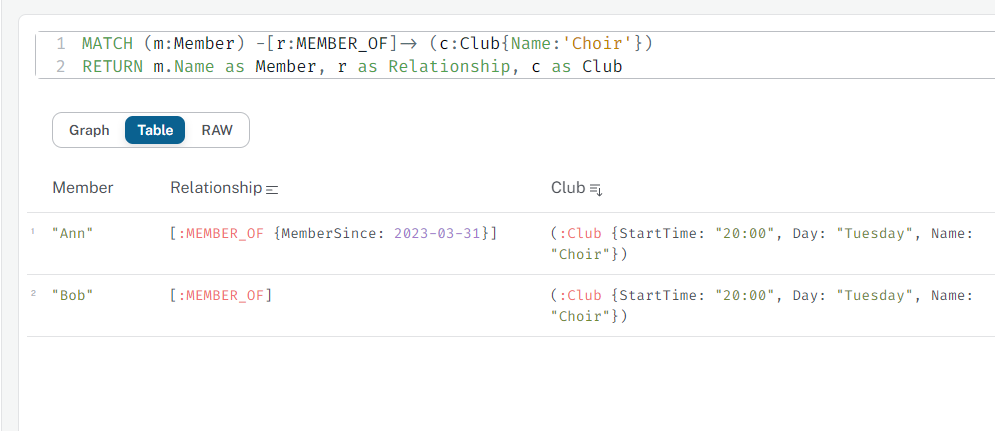
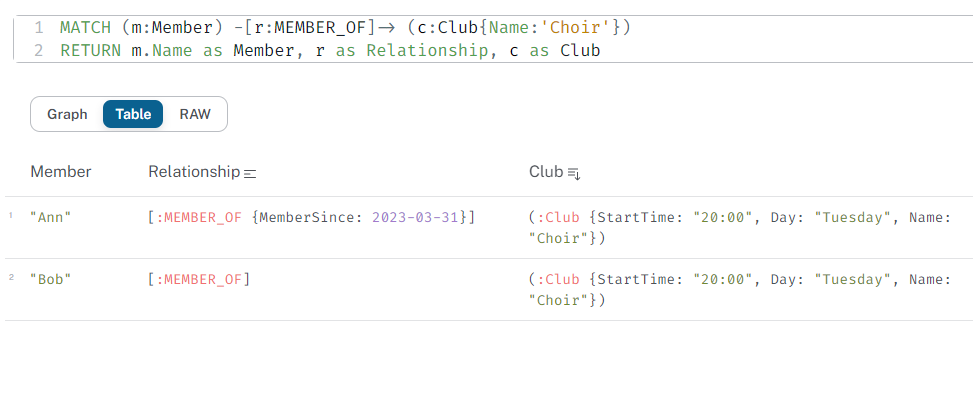
Updated newlines to be consistent and cropped images to remove borders

diff --git a/_posts/2024-05-01-knowledge-graphs-what-are-they.md b/_posts/2024-05-01-knowledge-graphs-what-are-they.md
@@ -7,36 +7,40 @@ summary: I'll admit that for me knowledge graphs and graph databases were always
 author: rstrange
 ---
 
-Knowledge graph technologies certainly appear to be [on the rise](https://www.linkedin.com/pulse/global-knowledge-graph-market-dynamics-xknsc), and if adoption rates continue to climb these data stores may quickly become something we all need to sit up and take notice of. Indeed, there are already many [applications of knowledge graphs](https://www.wisecube.ai/blog/20-real-world-industrial-applications-of-knowledge-graphs/) out there in domains as diverse as finance, health and social media, all the way to the latest AI and Natural Language Processing techniques.  
-With no personal experience with them however, I’d always found knowledge graphs (and graph databases) to be a nebulous concept - in short I didn’t really know what they were, but I kind of knew they existed. 
+Knowledge graph technologies certainly appear to be [on the rise](https://www.linkedin.com/pulse/global-knowledge-graph-market-dynamics-xknsc), and if adoption rates continue to climb these data stores may quickly become something we all need to sit up and take notice of. Indeed, there are already many [applications of knowledge graphs](https://www.wisecube.ai/blog/20-real-world-industrial-applications-of-knowledge-graphs/) out there in domains as diverse as finance, health and social media, all the way to the latest AI and Natural Language Processing techniques.
 
-In this blog post I’ll give my impressions having looked into these data stores. I’ll go over the basics of what a knowledge graph is, and discuss how and why graph databases can be useful compared to more traditional relational databases.
-Hopefully this can serve as a useful springboard for anyone else interested in learning the basics.
+With no personal experience with them however, I’d always found knowledge graphs (and graph databases) to be a nebulous concept - in short I didn’t really know what they were, but I kind of knew they existed.
+
+In this blog post I’ll give my impressions having looked into these data stores. I’ll go over the basics of what a knowledge graph is, and discuss how and why graph databases can be useful compared to more traditional relational databases. Hopefully this can serve as a useful springboard for anyone else interested in learning the basics.
 
 ### What is a knowledge graph?
-There are a few different definitions around, all of them fairly abstract, but in effect they’re a graphical representation of entities and the relationships between them. They are knowledge that is modelled as a graph of connected entities, hence knowledge graph.  
+There are a few different definitions around, all of them fairly abstract, but in effect they’re a graphical representation of entities and the relationships between them. They are knowledge that is modelled as a graph of connected entities, hence knowledge graph.
+
 Below is an example of a knowledge graph showing a choir club alongside two of its members - the knowledge it represents is that Ann and Bob are members of a choir.
 
 <small>A simple knowledge graph</small>
 ![png]({{ site.github.url }}/rstrange/assets/knowledge-graphs/knowledge-graph-simple.png)
 
-Ann, Bob and Choir are **entities** in the knowledge graph, commonly referred to as nodes.  
+Ann, Bob and Choir are **entities** in the knowledge graph, commonly referred to as nodes.
+
 These nodes can represent anything we can think of, as knowledge graphs are structureless. Here we’re only representing two types of node, members (Ann and Bob) and clubs (Choir), but we could add whatever we like in. If we decided it worthwhile to model the building the choir takes place in, we could add another circle, write ‘village hall’ inside it and we’re away.
 
-The two MEMBER_OF arrows represent the **relationships** between these entities, commonly referred to as edges.  
+The two MEMBER_OF arrows represent the **relationships** between these entities, commonly referred to as edges.
+
 Here the arrows suggest the relationship has direction; Ann is a member of the Choir, but the Choir is not a member of Ann. In this blog we’ll limit ourselves to relationships that have direction.
 
 So we’ve got a conceptual model of nodes which represent entities, and edges which represent the relationships between those entities. Great!
 
 ### What is a graph database?
-Graph databases are data stores for knowledge graphs. They are databases built on the foundation that the relationships between entities are as important as the entities themselves. By doing so they can put relationships at the forefront of how they are structured, and therefore how they can be queried.  
-As we’ll see later they make traversing relationships in a data store far easier. I have also seen claims that this translates to faster query times when traversing relationships in highly connected data, albeit I haven’t benchmarked this myself.
+Graph databases are data stores for knowledge graphs. They are databases built on the foundation that the relationships between entities are as important as the entities themselves. By doing so they can put relationships at the forefront of how they are structured, and therefore how they can be queried. As we’ll see later they make traversing relationships in a data store far easier. I have also seen claims that this translates to faster query times when traversing relationships in highly connected data, albeit I haven’t benchmarked this myself.
 
-There are many different graph database vendors around, from [Neo4j](https://neo4j.com/) and [TigerGraph](https://www.tigergraph.com/), through to [Neptune](https://aws.amazon.com/neptune/) on AWS and Azure’s [Cosmos DB](https://learn.microsoft.com/en-us/azure/cosmos-db/gremlin/introduction). I won’t be doing an in depth analysis on these here, but I think it’s fair to say there’s plenty of choice in the market.  
+There are many different graph database vendors around, from [Neo4j](https://neo4j.com/) and [TigerGraph](https://www.tigergraph.com/), through to [Neptune](https://aws.amazon.com/neptune/) on AWS and Azure’s [Cosmos DB](https://learn.microsoft.com/en-us/azure/cosmos-db/gremlin/introduction). I won’t be doing an in depth analysis on these here, but I think it’s fair to say there’s plenty of choice in the market.
+
 I’m using a Neo4j database throughout this blog alongside their visualisation engine, which lets you view the data as a knowledge graph. Whilst the visualisation engine isn’t necessarily always a part of graph databases (you can store data without one), they are a standard way of interacting with them and viewing the data. Indeed you’ve already seen one, the initial image in this blog post was taken from a Neo4j database.
 
 ### We’ve got some circles and lines, but where’s the rest of the data?
-Knowledge graphs, and by extension graph databases, can include implicit data on both the nodes and the edges.  
+Knowledge graphs, and by extension graph databases, can include implicit data on both the nodes and the edges.
+
 For this example, Neo4j has the concept of labels on nodes, and types on edges. Both can then also have additional data properties. Below shows the Choir node with a label ‘Club’ and a property ‘StartTime’. The edge has type ‘MEMBER_OF’ and property ‘MemberSince’.
 
 <small>Label and property on a node</small>
@@ -58,12 +62,15 @@ MATCH (m:Member) -[r:MEMBER_OF]-> (c:Club{Name:'Choir'})
 RETURN m.Name as Member, r as Relationship, c as Club
 ~~~
 
-I’m not going to go into the details of Cypher in this blogpost, but the above matches any node with the Member label that has a MEMBER_OF relationship to a node with the club label and name property ‘choir’.  
-It’s a powerful language which is basically the equivalent of SQL in a relational database. Originally created solely for Neo4j it has been open sourced through OpenCypher, a popular querying language for graph databases across multiple vendors.  
+I’m not going to go into the details of Cypher in this blogpost, but the above matches any node with the Member label that has a MEMBER_OF relationship to a node with the club label and name property ‘choir’.
+
+It’s a powerful language which is basically the equivalent of SQL in a relational database. Originally created solely for Neo4j it has been open sourced through OpenCypher, a popular querying language for graph databases across multiple vendors.
+
 It’s also worth noting that just recently the International Organisation for Standardization (ISO) certified [GQL as the official language for graph databases](https://www.theregister.com/2024/04/24/gql_iso_recognition/); and Cypher appears to have been a large influence in the creation of this standard.
 
 ### Why would I use a graph database over a relational database?
-I’ll admit this was my first thought, so I knocked up an example of each to allow myself to compare how they act.  
+I’ll admit this was my first thought, so I knocked up an example of each to allow myself to compare how they act.
+
 To make things a little more interesting I first expanded out the example from above, adding in some extra clubs and members. We now have 3 clubs: Choir, Board Game club, and Judo. We’ve also got some extra members in those clubs.
 
 For the purposes of comparison I then created three database tables in Sql to hold the same data. Those tables were Club, Member and Membership, where the Membership table holds the many-to-many relationship between clubs and members.
@@ -74,17 +81,17 @@ For the purposes of comparison I then created three database tables in Sql to ho
 <small>Tabular representation of members and clubs</small>
 ![png]({{ site.github.url }}/rstrange/assets/knowledge-graphs/sql-with-joins.png)
 
-Both of these representations are pretty easy to read, but traversing the relationships of the tabular representation feels clunky in comparison.  
-For example, what if we wanted to know which members go to a club with Bob?  
+Both of these representations are pretty easy to read, but traversing the relationships of the tabular representation feels clunky in comparison.
+
+For example, what if we wanted to know which members go to a club with Bob?
+
 I find that in the knowledge graph I can link through the relationships easily to traverse the data, whereas in the table form I need to keep track of the data in my head as I read it.
 
-That may sound obvious, but I think it’s a powerful representation of what knowledge graphs and graph databases are for; they are for when the relationships between data are as interesting or important as the data itself.  
-To put it another way, if you have a connected dataset where you’ll be traversing relationships often, they could be the way to go.
+That may sound obvious, but I think it’s a powerful representation of what knowledge graphs and graph databases are for; they are for when the relationships between data are as interesting or important as the data itself. To put it another way, if you have a connected dataset where you’ll be traversing relationships often, they could be the way to go.
 
 Now you might argue that it’s perhaps an unfair comparison, as there is nothing stopping anyone from building a tool to sit above SQL tables to show them in a similar graphical format. The point is that graph databases are built in a way that makes the creation of this visual knowledge graph far easier. Whichever vendor we pick, we can expect there to be nice tools to do this out of the box. So rather than wrangling SQL to try and be something it’s not, we can just use a graph database.
 
-But that’s just a visual, now let’s compare how we might query this data. We’ll construct a Cypher query for the graph database, and a SQL query for the relational database.  
-Let’s assume that Bob wants to throw a party with all of his friends from the clubs he goes to; we want the list of all people who go to a club with Bob. We don’t want to retrieve Erica, as Bob doesn’t go to Judo and doesn’t know her. For the sake of the query let’s also assume he’s always changing clubs, so we don’t have a way of knowing what clubs he goes to ahead of time.
+But that’s just a visual, now let’s compare how we might query this data. We’ll construct a Cypher query for the graph database, and a SQL query for the relational database. Let’s assume that Bob wants to throw a party with all of his friends from the clubs he goes to; we want the list of all people who go to a club with Bob. We don’t want to retrieve Erica, as Bob doesn’t go to Judo and doesn’t know her. For the sake of the query let’s also assume he’s always changing clubs, so we don’t have a way of knowing what clubs he goes to ahead of time.
 
 With the SQL tables one such SQL query could look like this:
 
@@ -110,7 +117,8 @@ RETURN m.Name as `PotentialGuests`
 
 They both return the same thing, a table named PotentialGuests with the three members Ann, Caroline and Dave.
 
-Even if you don’t fully follow either of these queries Cypher is clearly the more efficient language in this example. By making relationships a first class citizen of both the data and the language I can more easily query how the different relationships play out.  
+Even if you don’t fully follow either of these queries Cypher is clearly the more efficient language in this example. By making relationships a first class citizen of both the data and the language I can more easily query how the different relationships play out.
+
 Even as someone new to it, it was far easier to query nodes and traverse through relationships in Cypher than SQL.
 
 ### They’re schemaless?
@@ -118,19 +126,22 @@ It’s worth mentioning that as graph databases are schemaless they are inherent
 
 If we wanted to add on a new type of Instructor node in our graph database it would be a simple matter of adding an Instructor node, and joining it to our Judo Node with a new type of ‘Instructs’ relationship. In our relational database we’d need to create a new table for our Instructor to live in, then potentially create a new many-to-many table to handle the relationship, so it would be a more involved job. Alternatively maybe we want to refactor the Member database into a People database, who knows? In order to ensure we don’t end up making silly decisions it becomes useful to know our domain space up front, which often isn’t a given in the real world.  
 
-The graph database lets us expand out our data in any direction we like, as it isn’t constrained by schema definitions.  
-Depending on your use case this can be a very beneficial advantage. If you’re building up a database of relationships from natural language processing for example, it can be very useful to be able to store data in a non-normalised manner to allow your data to grow organically as different entities and relationships present themselves.  
-This can also have a drawback of course; if your data grows organically to a large scale it might become harder to traverse in a meaningful way - without the rigid boundaries such as the table definitions in SQL you might find yourself in a soup of similarly connected nodes connected by almost-but-not-quite-the-same edges.  
+The graph database lets us expand out our data in any direction we like, as it isn’t constrained by schema definitions.
+
+Depending on your use case this can be a very beneficial advantage. If you’re building up a database of relationships from natural language processing for example, it can be very useful to be able to store data in a non-normalised manner to allow your data to grow organically as different entities and relationships present themselves.
+
+This can also have a drawback of course; if your data grows organically to a large scale it might become harder to traverse in a meaningful way - without the rigid boundaries such as the table definitions in SQL you might find yourself in a soup of similarly connected nodes connected by almost-but-not-quite-the-same edges.
+
 It’s worth saying that there are tools out there to apply [boundaries to graph databases](https://neo4j.com/labs/neosemantics/4.0/validation/) if you need to. As with any schemaless data store just because the technology allows us to grow our data unfettered by any rules, it doesn't neccesarily mean that we always should. Obviously there are cases where you don’t want to constrain your data, but it’s worth thinking about.
 
 ### Any other points?
-The equivalents of an Object Relational Mapper (ORM) seem to be a bit thin on the ground, and likely vendor and query language dependent.  
-For example coming from a .Net background I’m used to using Entity Framework as an ORM to provide some protection from threats such as SQL injection attacks. Whilst some support is there for graph databases they don’t necessarily give you everything, so you’ll need to be sure you’re not opening yourself to any [injection attacks](https://neo4j.com/developer/kb/protecting-against-cypher-injection/) in whichever query language you’re using. 
+The equivalents of an Object Relational Mapper (ORM) seem to be a bit thin on the ground, and likely vendor and query language dependent. For example coming from a .Net background I’m used to using Entity Framework as an ORM to provide some protection from threats such as SQL injection attacks. Whilst some support is there for graph databases they don’t necessarily give you everything, so you’ll need to be sure you’re not opening yourself to any [injection attacks](https://neo4j.com/developer/kb/protecting-against-cypher-injection/) in whichever query language you’re using. 
 
 In addition, just to mention, graph databases are for the most part [ACID](https://en.wikipedia.org/wiki/ACID) compliant. You’ll want to double check the documentation for the vendor you’re interested in, but it’s certainly a valid requirement and one that many graph databases can handle.
 
 ### Conclusion
-This has been a fairly brief rundown of knowledge graphs and graph databases.  
+This has been a fairly brief rundown of knowledge graphs and graph databases.
+
 Of course even ignoring SQL there are a multitude of [database technologies](https://learn.microsoft.com/en-us/azure/architecture/data-guide/big-data/non-relational-data) vying for our attention, from document and key-value stores through to vector databases. Only time will tell how widely adopted knowledge graphs and graph databases will become, but they could be worthy of a look depending on your needs.
 
 Whilst they’re not a magic bullet, with knowledge of the domain space and how the data has been mapped into the graph they can be a powerful tool to help investigate and curate data, allowing you to extract meaningful business insights that might otherwise have been overlooked.
